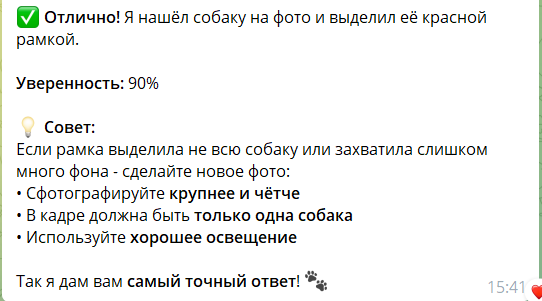
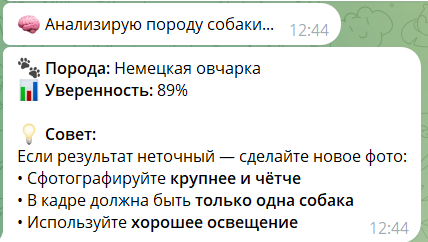
README

Changed region(s): [[0.0, 0.0, 1.0, 1.0]]

diff --git a/README.md b/README.md
@@ -74,13 +74,11 @@
 
     <img src="assets/demo/demo_1/photo_1.png" alt="Демонстрация работы бота" width="400"/>
 
-    <img src="assets/demo/demo_1/photo_2.jpg" alt="Демонстрация работы бота" width="400"/>
-
-    <img src="assets/demo/demo_1/photo_3.png" alt="Демонстрация работы бота" width="400"/>
+    <img src="assets/demo/demo_1/photo_2.png" alt="Демонстрация работы бота" width="400"/>
 
 3. Называет породу на русском языке с указанием уверенности
 
-    <img src="assets/demo/demo_1/photo_4.png" alt="Демонстрация работы бота" width="400"/>
+    <img src="assets/demo/demo_1/photo_3.png" alt="Демонстрация работы бота" width="400"/>
 
 #### Пример 3: Фото без собаки
 
